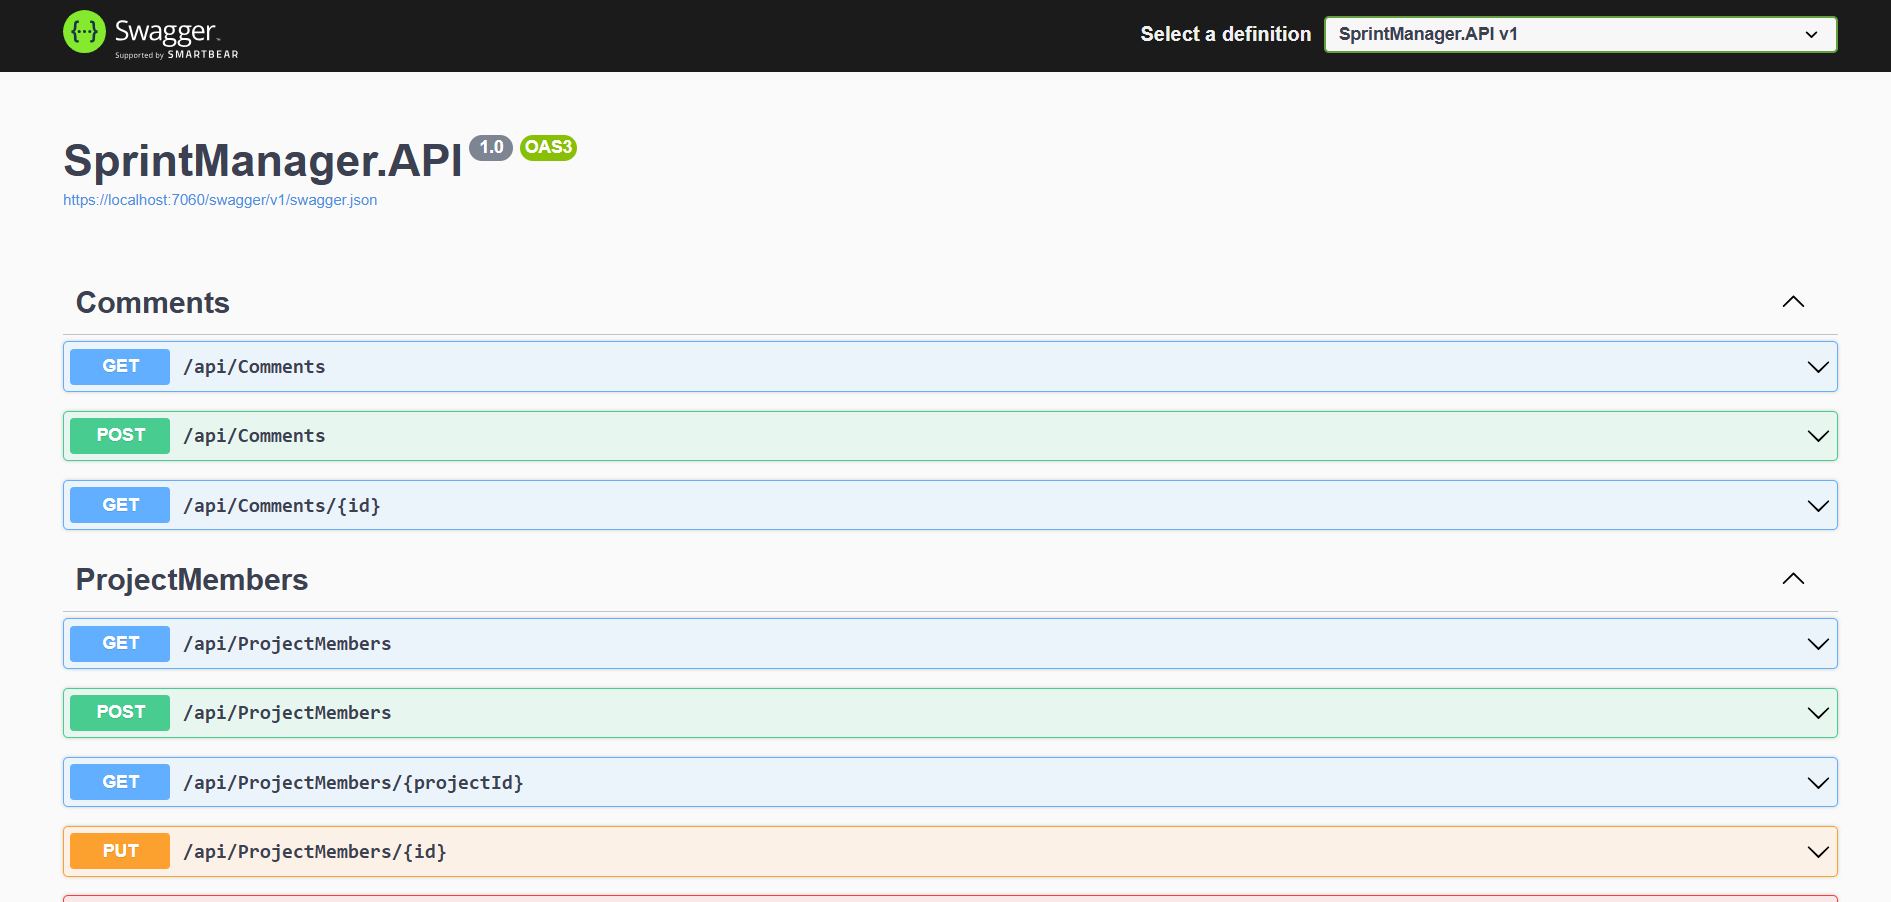
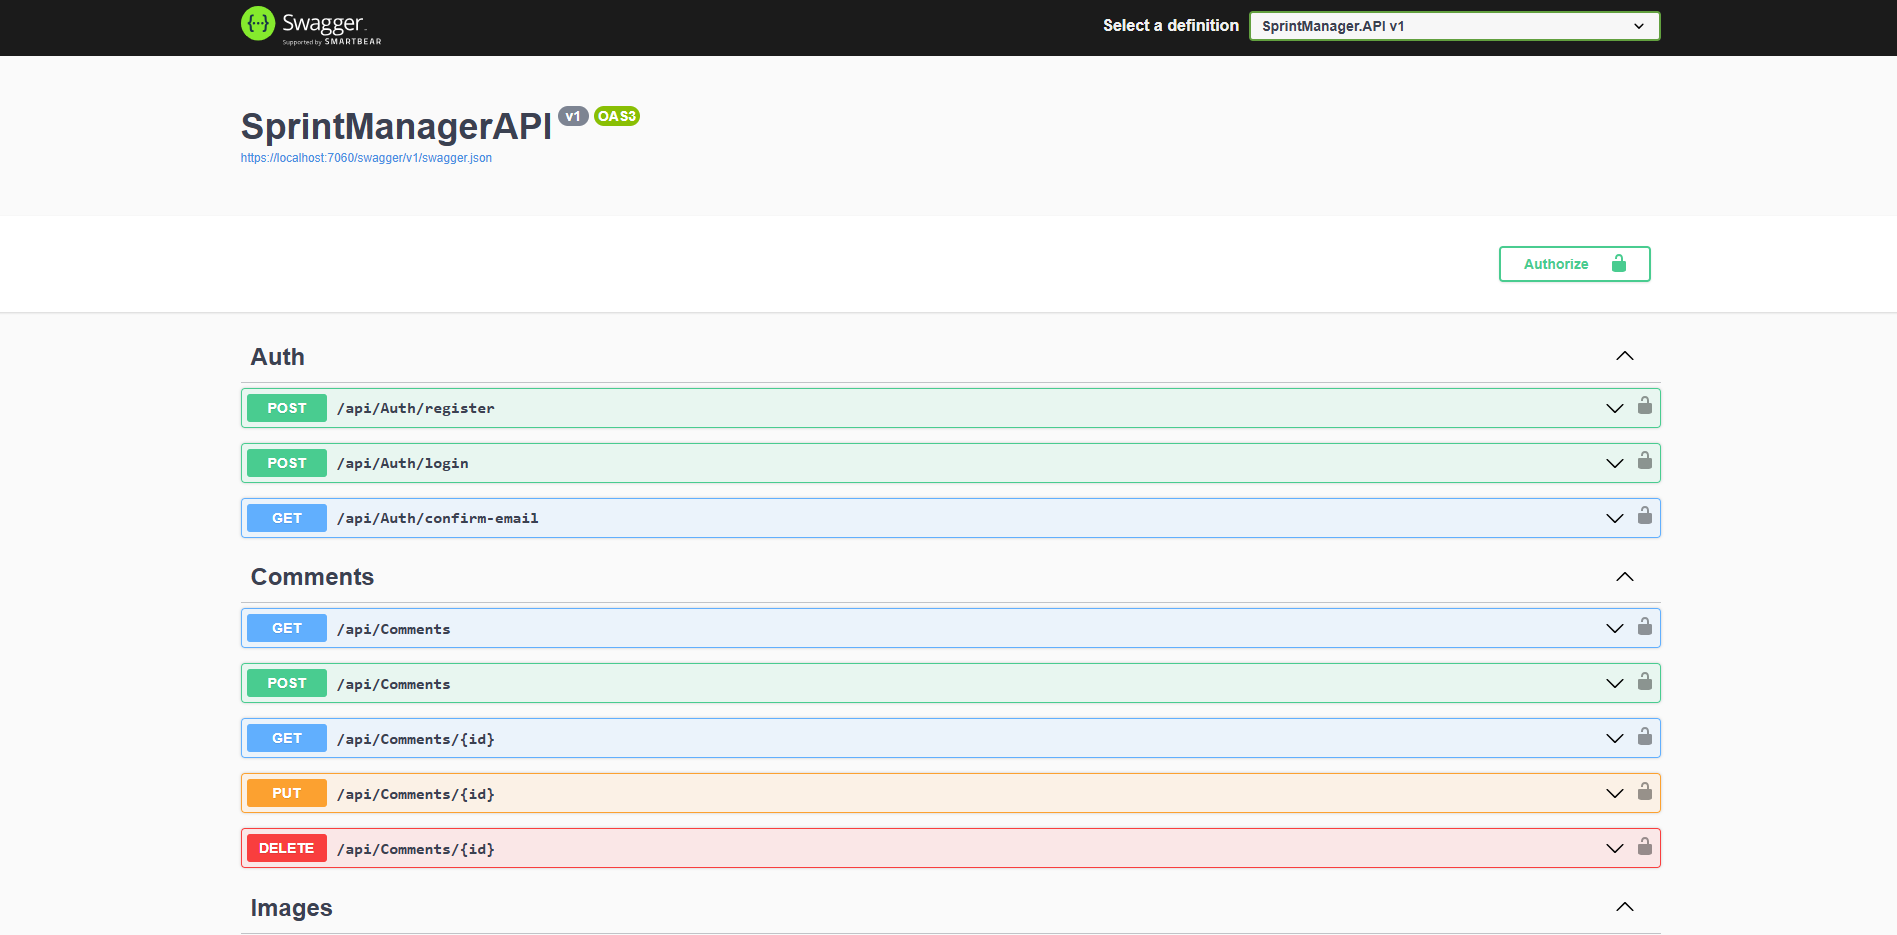
Sprint Manager added to projects page

Changed region(s): [[0.0312, 0.3104, 0.8736, 1.0], [0.0, 0.0, 1.0, 0.2483], [0.78, 0.2483, 0.8736, 0.3104]]

diff --git a/src/app/projects/sprint-manager/page.tsx b/src/app/projects/sprint-manager/page.tsx
@@ -1,0 +1,31 @@
+import Link from 'next/link'
+import React from 'react'
+
+export default function SprintManager() {
+  return (
+    <div className='justify-items-center overflow-x-hidden'>
+        <div className='mt-10'>
+            <p className='text-4xl font-semibold font-ubuntu'>Sprint Manager</p>
+        </div>
+        <div className='m-5 mt-10 max-w-3xl md:mt-12 xl:mt-10'>
+            <div>
+                <img src='/sprint-manager.png' className='' />
+                <div className='mt-5'>
+                    <span className='font-semibold font-ubuntu'>Tecnology used:</span>
+                    <span className='font-ubuntu'> .NET</span>
+                </div>
+                <div className='mt-5 font-ubuntu'>
+                    <p>
+                        An api focused on organizing and tracking tasks. It provides a solid foundation for managing projects, sprints, work items and team members.
+                    </p>
+                </div>
+                <div className='flex mt-5 space-x-4'>
+                    <Link href="https://github.com/daniazevedo43/SprintManager" className='font-ubuntu text-[#1976d2] hover:underline w-auto'>
+                        <p className='font-ubuntu'>Try it here</p>
+                    </Link>
+                </div>
+            </div>
+        </div>
+    </div>
+  )
+}

diff --git a/src/app/projects/page.tsx b/src/app/projects/page.tsx
@@ -22,6 +22,26 @@ export default function Projects() {
           >
               <div className='m-3 border border-gray-200'>
                 <img 
+                  src='/sprint-manager.png' 
+                  className='h-32 w-full'
+                />
+              </div>
+              <div className='m-3'>
+                <p className='text-2xl font-semibold font-ubuntu dark:text-black'>Sprint Manager</p>
+                <p className='font-ubuntu mt-3 dark:text-black'>Posted: {postedDate(new Date(2025, 8, 6))}</p>
+                <div className='mt-7'>
+                  <Link href="/projects/sprint-manager" className='font-ubuntu text-[#1976d2] hover:underline w-auto'>
+                    Read more
+                  </Link>
+                </div>
+              </div>
+          </div>
+
+          <div 
+            className='flex flex-col bg-[#FFFFFF] mt-12 w-75 shadow-lg'
+          >
+              <div className='m-3 border border-gray-200'>
+                <img 
                   src='/stories.png' 
                   className='h-32 w-full'
                 />
